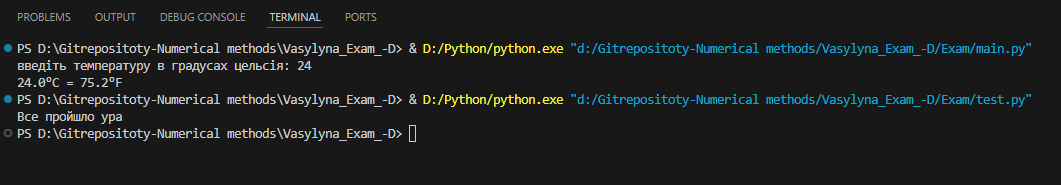
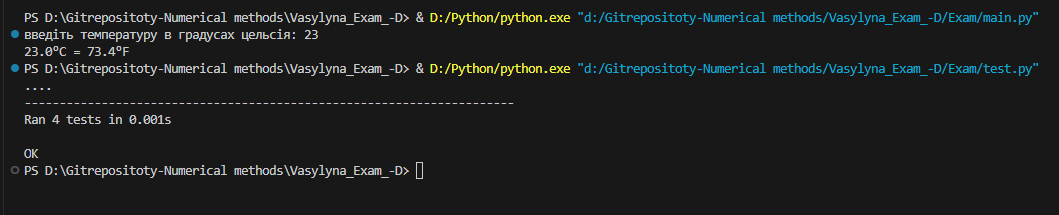
Виконав завдання для екзамену

Changed region(s): [[0.0, 0.2162, 0.9972, 0.4865], [0.0, 0.5135, 0.966, 0.8378], [0.0, 0.0541, 0.9972, 0.2162]]

diff --git a/Exam/test.py b/Exam/test.py
@@ -1,10 +1,18 @@
+import unittest
 from main import celsius_to_fahrenheit
 
-def test_celsius_to_fahrenheit():
-    assert celsius_to_fahrenheit(0) == 32.0
-    assert celsius_to_fahrenheit(100) == 212.0
-    assert celsius_to_fahrenheit(-40) == -40.0
-    assert round(celsius_to_fahrenheit(37), 2) == 98.6
-    print("Все пройшло ура")
+class TestCelsiusToFahrenheit(unittest.TestCase):
+    def test_zero(self):
+        self.assertEqual(celsius_to_fahrenheit(0), 32.0)
 
-test_celsius_to_fahrenheit()
+    def test_hundred(self):
+        self.assertEqual(celsius_to_fahrenheit(100), 212.0)
+
+    def test_negative(self):
+        self.assertEqual(celsius_to_fahrenheit(-40), -40.0)
+
+    def test_decimal(self):
+        self.assertAlmostEqual(celsius_to_fahrenheit(37), 98.6, places=1)
+
+if __name__ == '__main__':
+    unittest.main()
